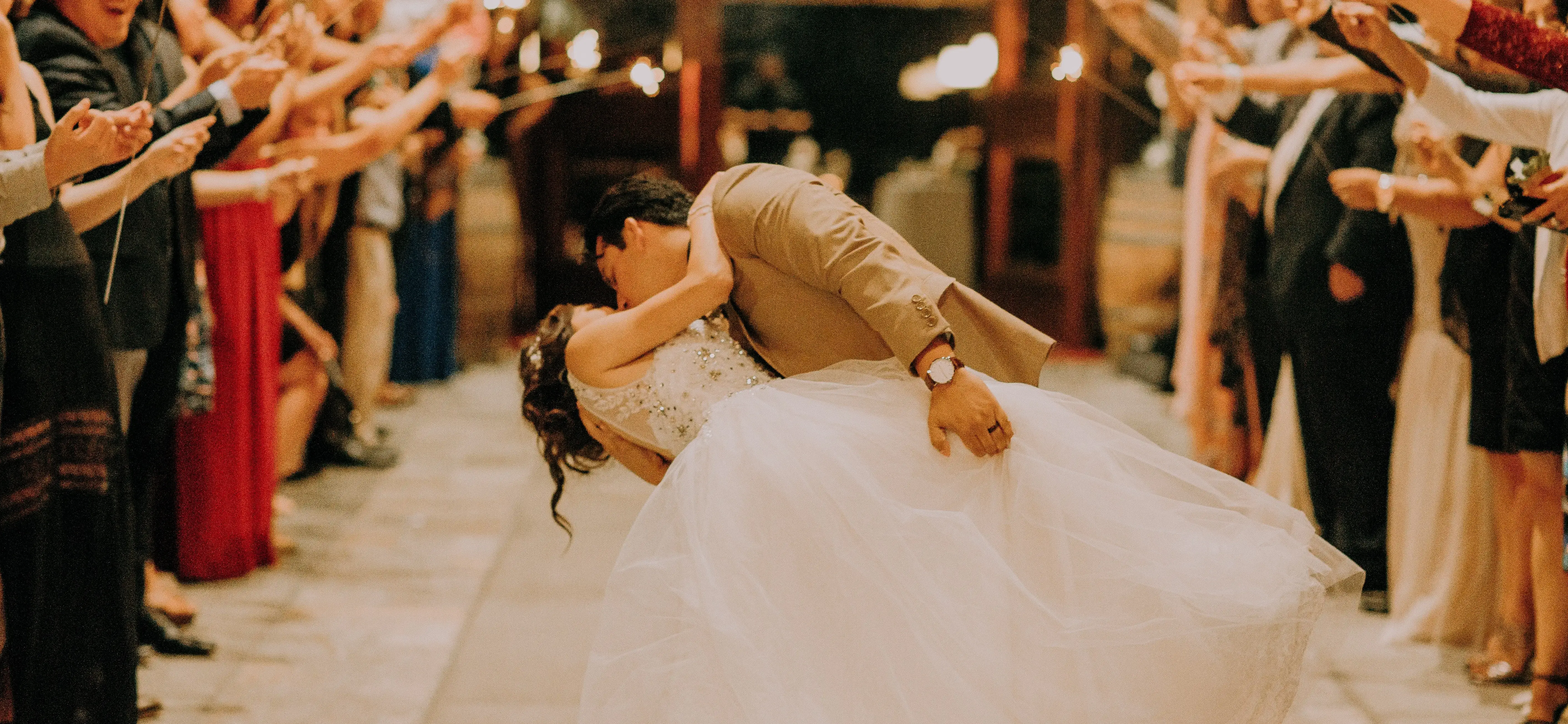
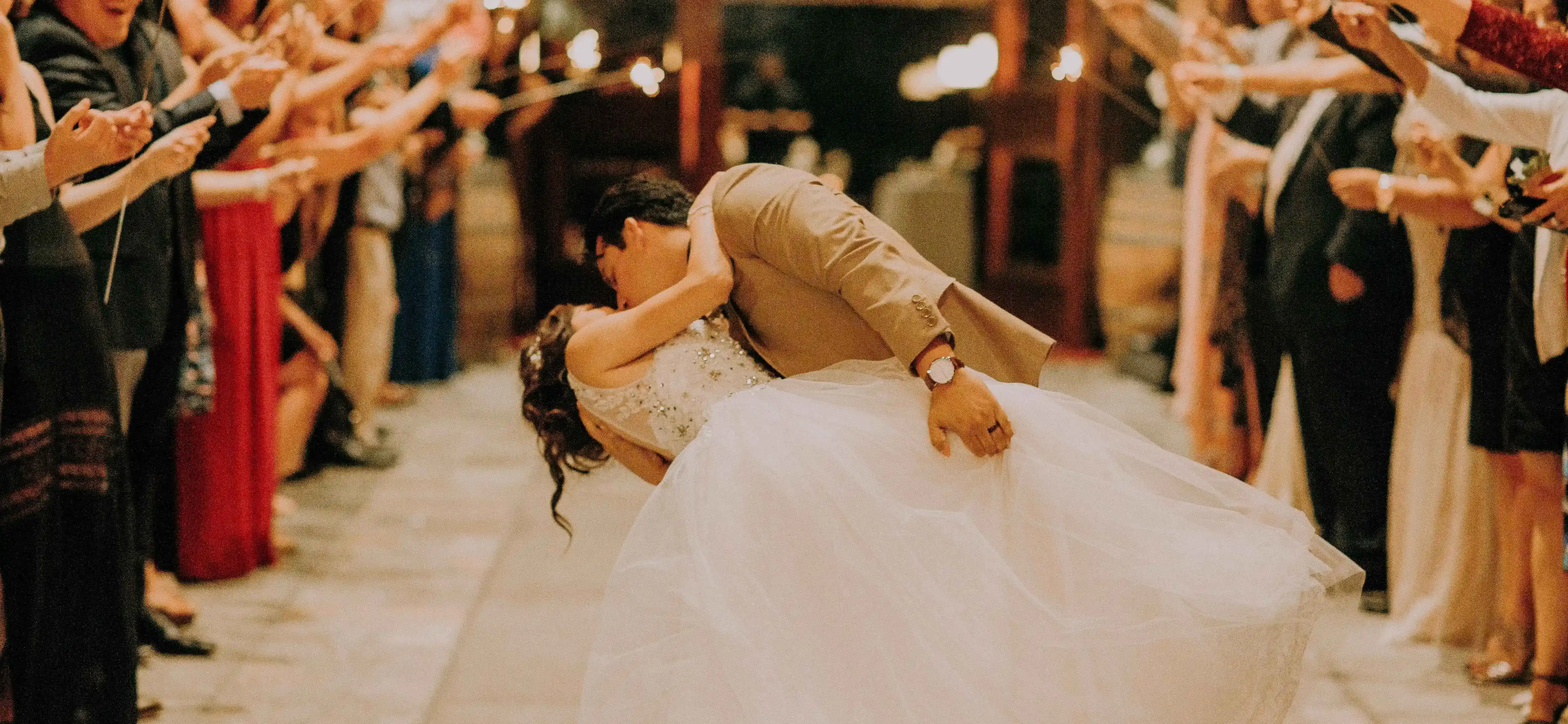
redimenssioner les images

diff --git a/index.html b/index.html
@@ -102,6 +102,7 @@
 					<div class="carousel-item active">
 						<img src="./assets/images/slider/ryoji-iwata.webp" class="d-block w-100"
 							alt="phto d'un homme traversant un passage clouté">
+
 					</div>
 					<div class="carousel-item">
 						<img src="./assets/images/slider/nicholas-green.webp" class="d-block w-100"
@@ -225,7 +226,7 @@
 					</div>
 					<div class="service__price">
 						<h4>400€ album format lettre</h4>
-						<span>30 pages recto verso>
+						<span>30 pages recto verso</span>
 					</div>
 				</div>
 			</div>
